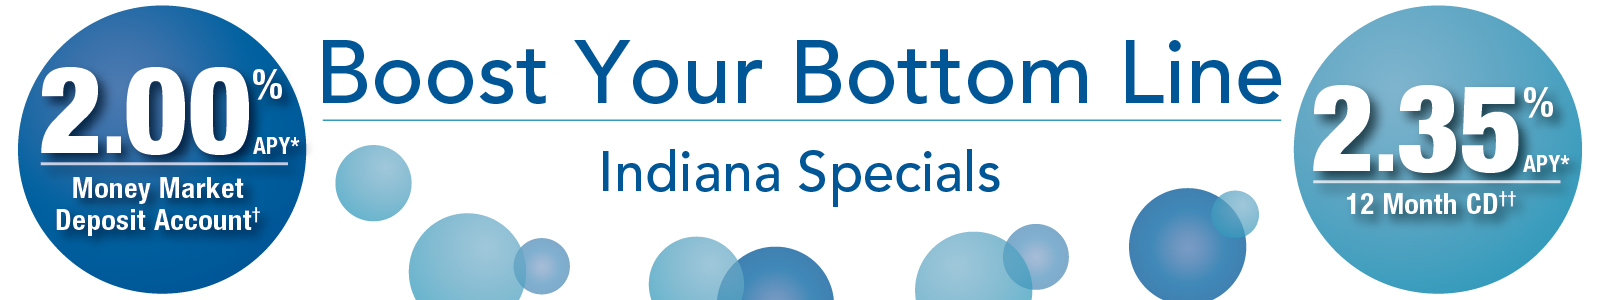
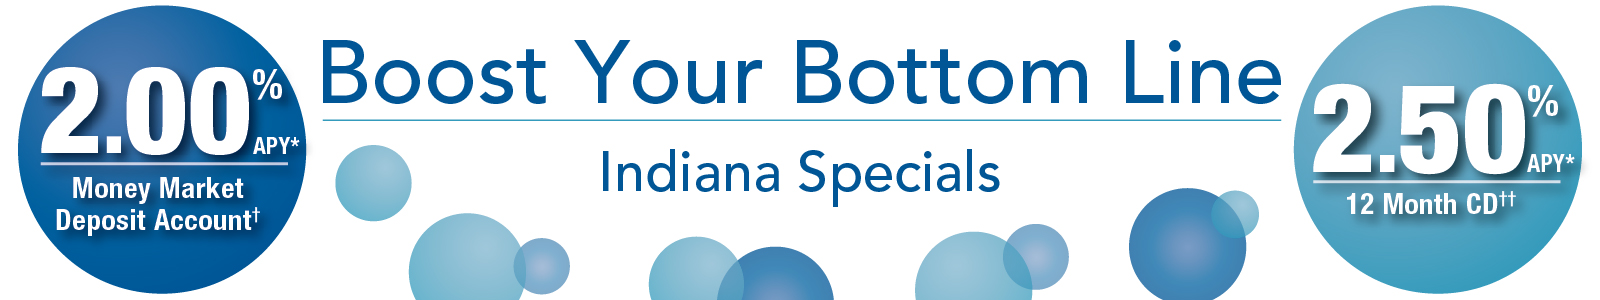
Changes due to rate change

Changed region(s): [[0.875, 0.27, 1.0, 0.6], [0.8438, 0.51, 0.875, 0.54]]

diff --git a/savings.html b/savings.html
@@ -146,7 +146,7 @@
               </div>
             </div><!-- row -->
             <div class="row spacer">
-              <p class="small para-margin"><sup>*</sup>Annual Percentage Yield (APY) <sup>†</sup>Money Market Deposit Account: Promotional rate of 2.00% APY for new accounts effective as of 10/15/18 and guaranteed for the first 365 days after account opening. Promotional rate offered on $10,000.00 or more of new money not currently on deposit within last 30 days with CIBM Bank. Minimum opening deposit of $100.00. The interest rate is subject to change at any time after initial 365 days. As of 10/10/18 Personal Money Market balances of $0.00-$9,999.99 (.08% APY); $10,000.00-$24,999.99 (.10% APY); $25,000.00-$49,999.99 (.13% APY); $50,000.00-$99,999.99 (.14% APY); $100,000.00 and above (.15% APY). Monthly fee $2.00 per debit if $1,000.00 minimum balance not maintained. As of 10/10/18 Business Money Market balances of $0.00-$9,999.99 (.08% APY); $10,000.00-$24,999.99 (.10% APY); $25,000.00-$49,999.99 (.13% APY); $50,000.00-$99,999.99 (.14% APY); $100,000.00 and above (.15% APY). Monthly fee $15.00 service charge if $5,000.00 minimum balance not maintained. Fees may reduce earnings. Accounts closed within 6 months of opening date subject to a $25.00 closing fee.  <sup>††</sup>12 Month Certificate of Deposit & IRA: Promotional rate of 2.35% (APY) effective as of 10/15/18 and guaranteed for the term of the account. Offer limited to $10,000.00 or more of new money not currently on deposit within last 30 days with CIBM Bank. Minimum opening deposit of $2,500.00 and a maximum of $250,000.00. Withdrawals made prior to maturity may be subject to an early withdrawal penalty. Offer not available in combination with any other offer.</p>
+              <p class="small para-margin"><sup>*</sup>Annual Percentage Yield (APY) <sup>†</sup>Money Market Deposit Account: Promotional rate of 2.00% APY for new accounts effective as of 10/15/18 and guaranteed for the first 365 days after account opening. Promotional rate offered on $10,000.00 or more of new money not currently on deposit within last 30 days with CIBM Bank. Minimum opening deposit of $100.00. The interest rate is subject to change at any time after initial 365 days. As of 10/10/18 Personal Money Market balances of $0.00-$9,999.99 (.08% APY); $10,000.00-$24,999.99 (.10% APY); $25,000.00-$49,999.99 (.13% APY); $50,000.00-$99,999.99 (.14% APY); $100,000.00 and above (.15% APY). Monthly fee $2.00 per debit if $1,000.00 minimum balance not maintained. As of 10/10/18 Business Money Market balances of $0.00-$9,999.99 (.08% APY); $10,000.00-$24,999.99 (.10% APY); $25,000.00-$49,999.99 (.13% APY); $50,000.00-$99,999.99 (.14% APY); $100,000.00 and above (.15% APY). Monthly fee $15.00 service charge if $5,000.00 minimum balance not maintained. Fees may reduce earnings. Accounts closed within 6 months of opening date subject to a $25.00 closing fee.  <sup>††</sup>12 Month Certificate of Deposit & IRA: Promotional rate of 2.50% (APY) effective as of 10/29/18 and guaranteed for the term of the account. Offer limited to $10,000.00 or more of new money not currently on deposit within last 30 days with CIBM Bank. Minimum opening deposit of $2,500.00 and a maximum of $250,000.00. Withdrawals made prior to maturity may be subject to an early withdrawal penalty. Offer not available in combination with any other offer.</p>
             </div><!-- row -->
             <div class="row spacer">
               <div class="col-md-6">
